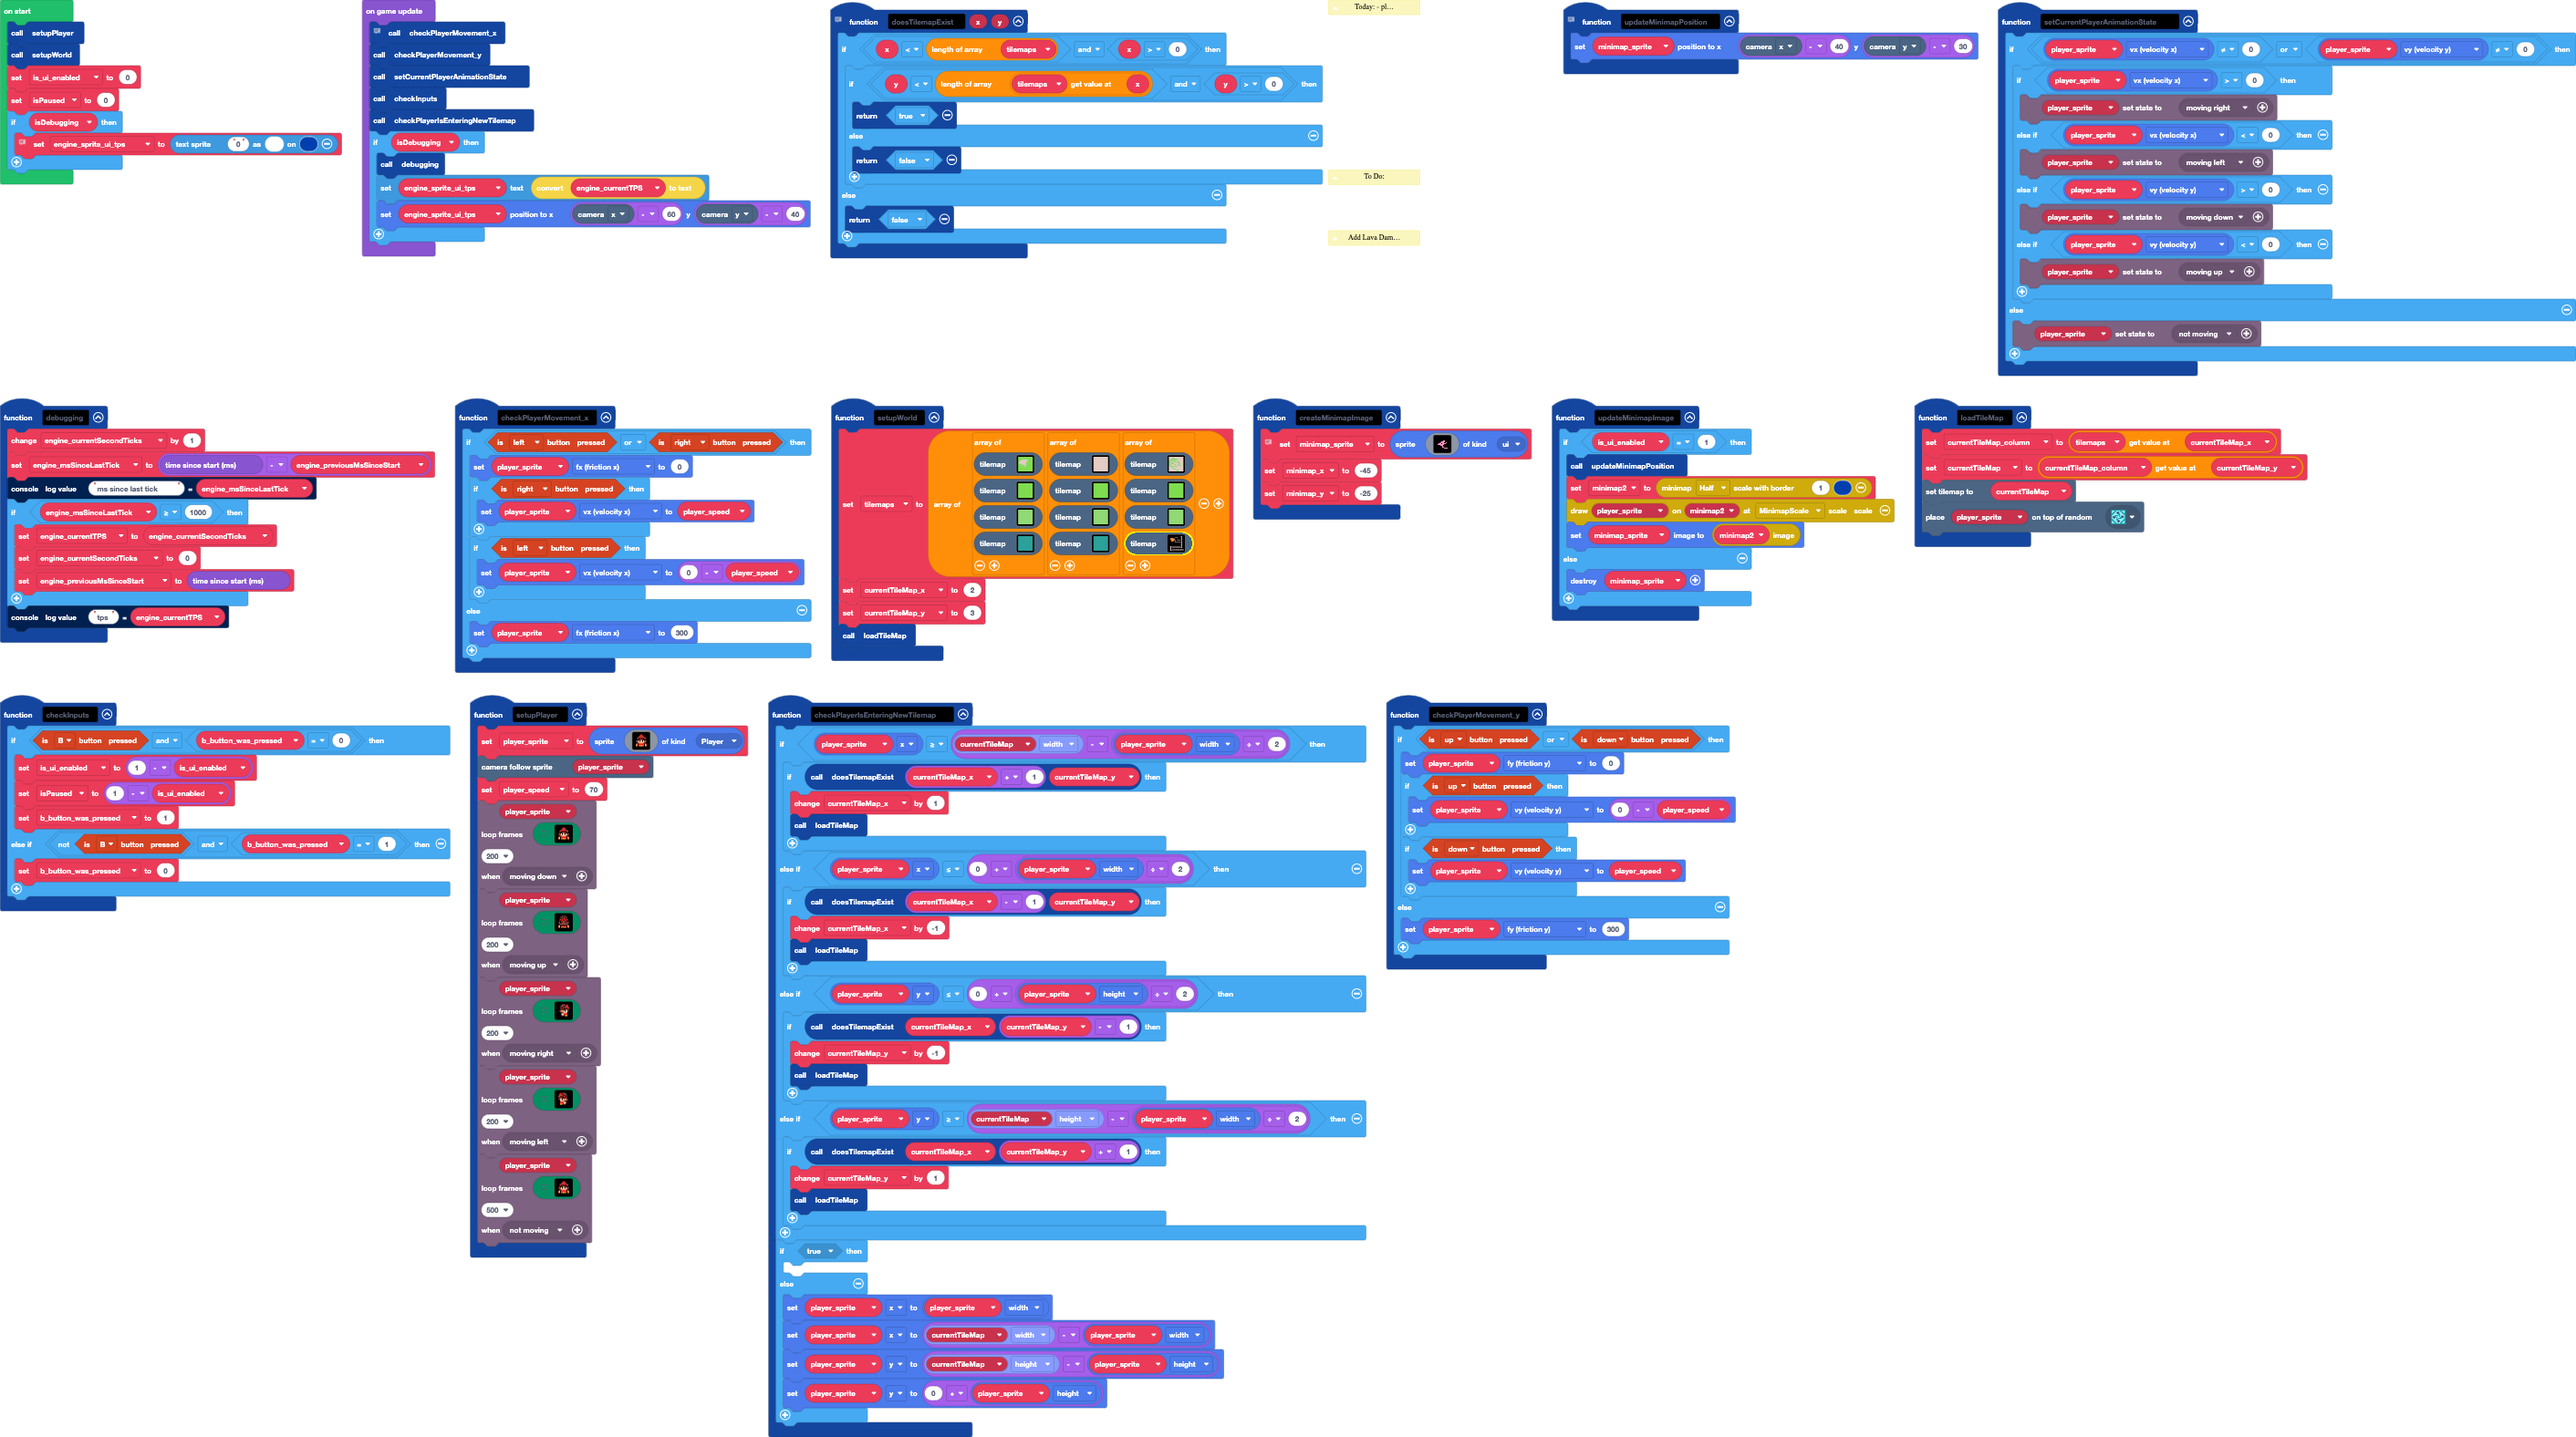
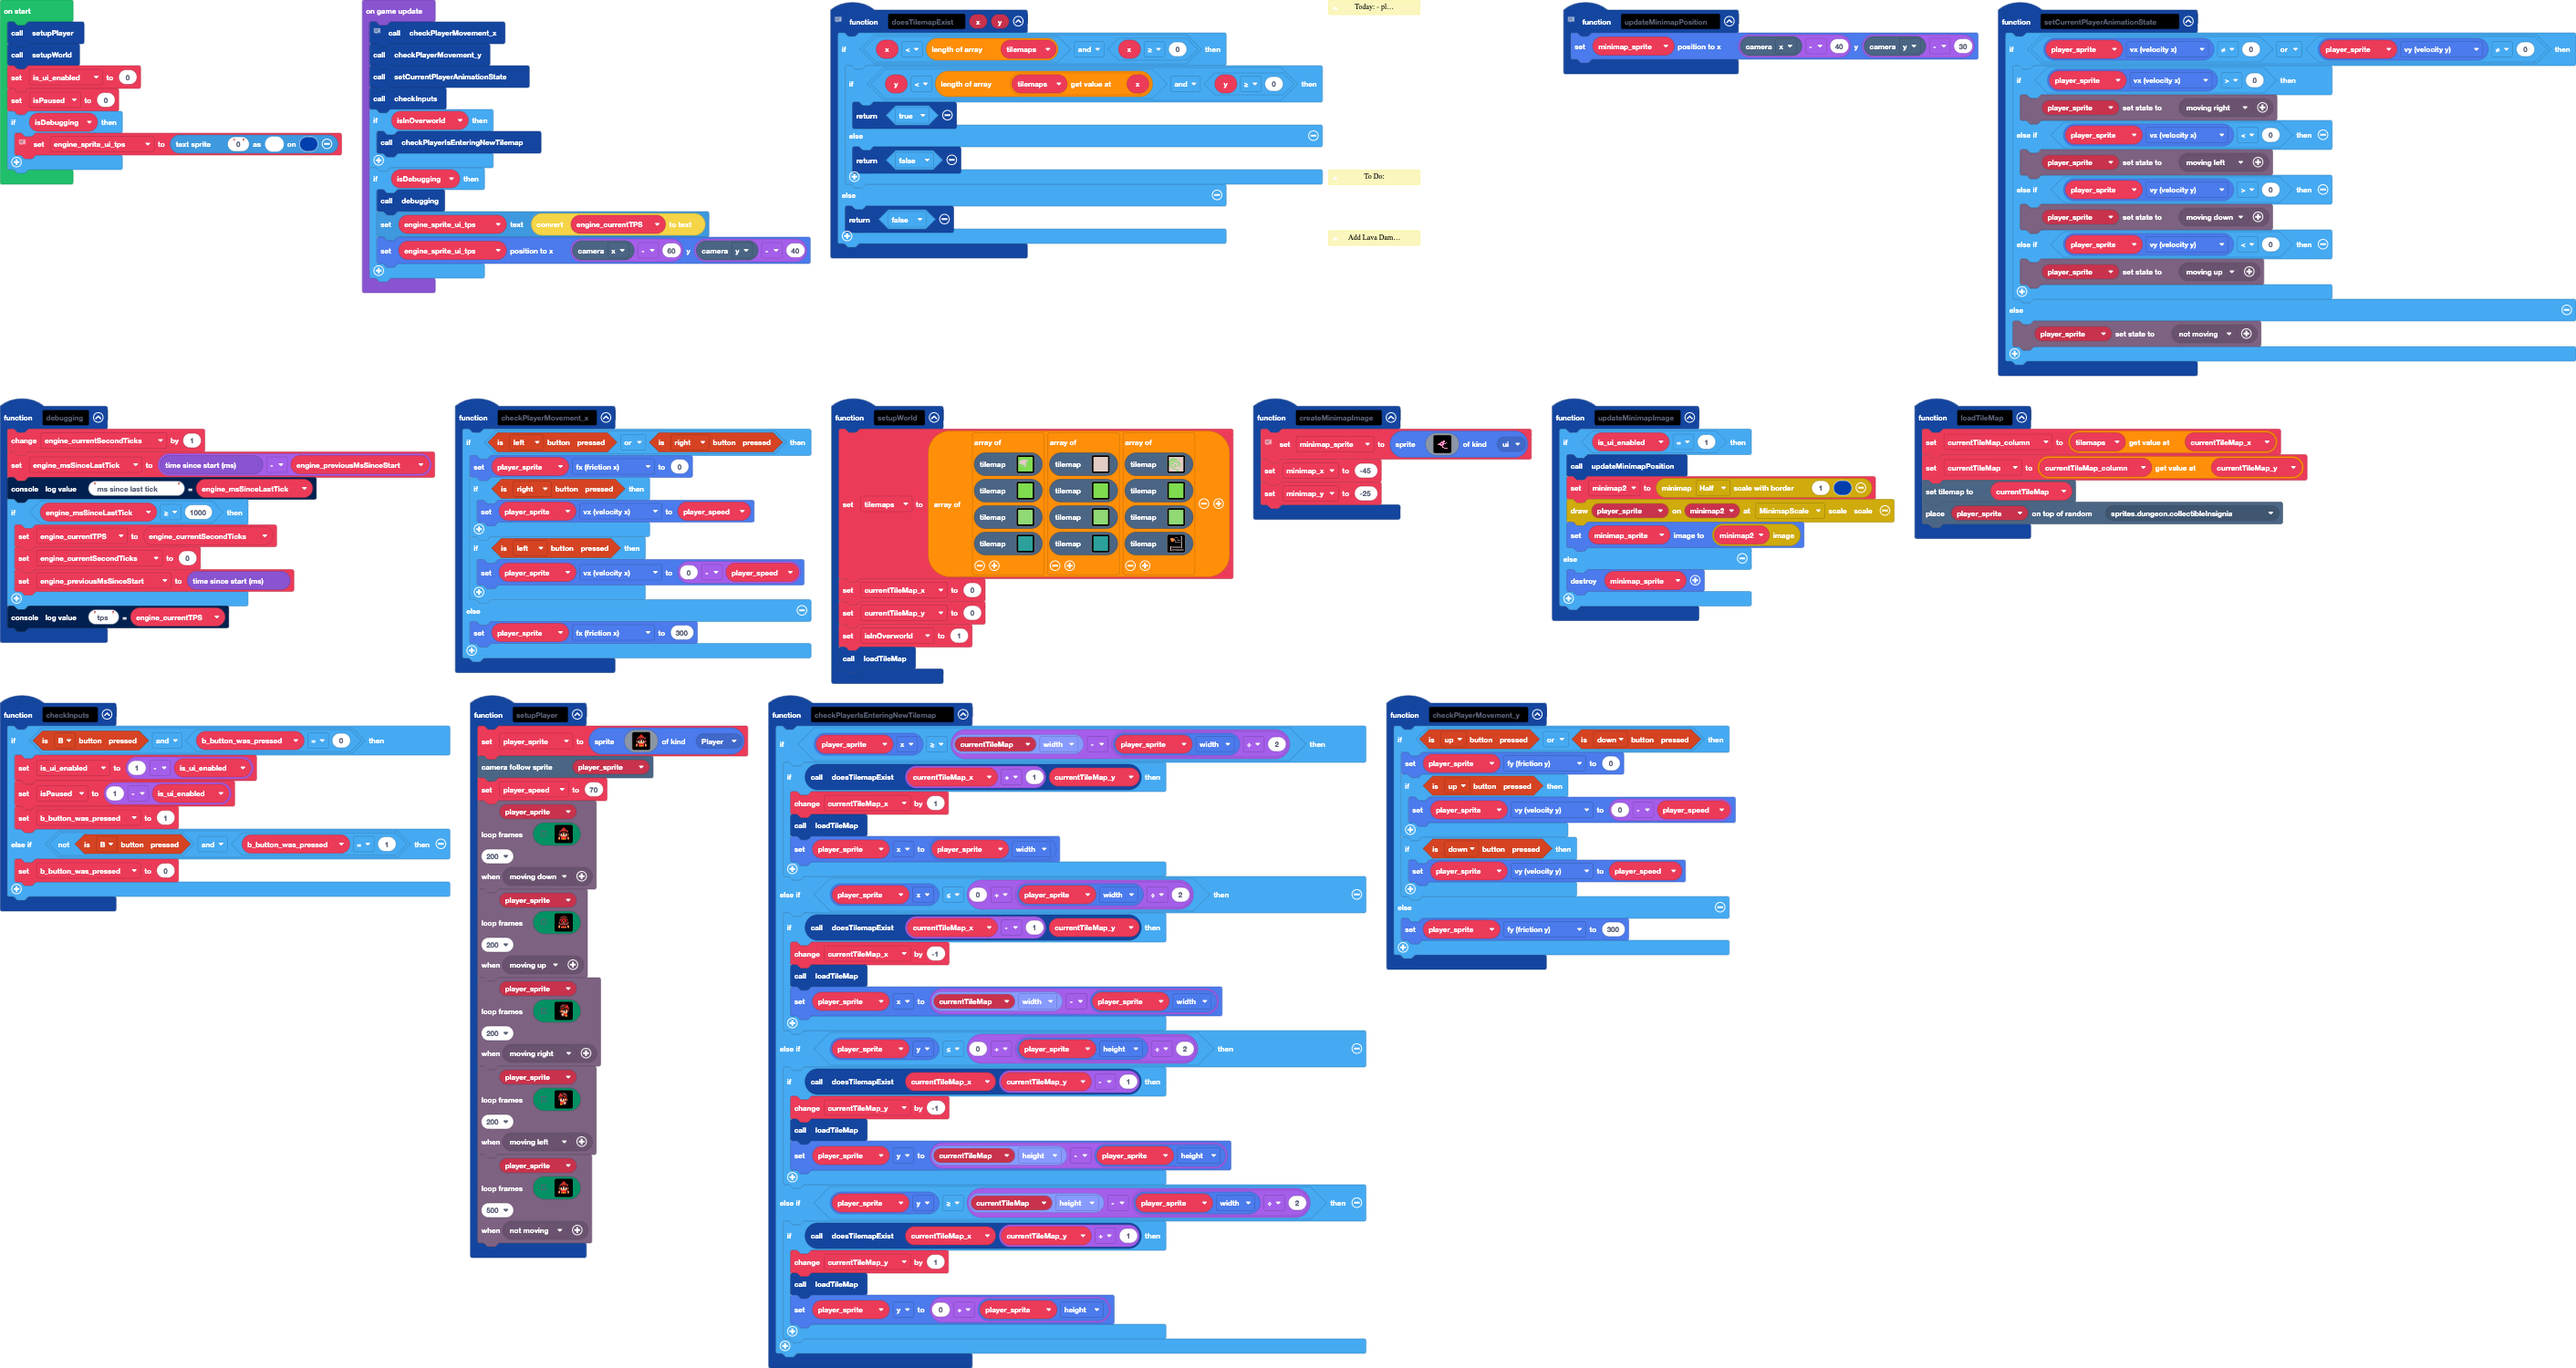
Fixed tilemap bug, added isInOverworld variable check

Changed region(s): [[0.0, 0.0, 1.0, 1.0], [0.0, 0.0, 0.5609, 0.2147]]

diff --git a/main.ts b/main.ts
@@ -61,8 +61,8 @@ namespace SpriteKind {
 // 
 // - Switching tile-maps when you touch the edge of the screen
 function doesTilemapExist (x: number, y: number) {
-    if (x < tilemaps.length && x > 0) {
-        if (y < tilemaps[x].length && y > 0) {
+    if (x < tilemaps.length && x >= 0) {
+        if (y < tilemaps[x].length && y >= 0) {
             return true
         } else {
             return false
@@ -131,8 +131,9 @@ function setupWorld () {
     tilemap`level8`,
     tilemap`level`
     ]]
-    currentTileMap_x = 2
-    currentTileMap_y = 3
+    currentTileMap_x = 0
+    currentTileMap_y = 0
+    isInOverworld = 1
     loadTileMap()
 }
 function createMinimapImage () {
@@ -206,30 +207,26 @@ function checkPlayerIsEnteringNewTilemap () {
         if (doesTilemapExist(currentTileMap_x + 1, currentTileMap_y)) {
             currentTileMap_x += 1
             loadTileMap()
+            player_sprite.x = player_sprite.width
         }
     } else if (player_sprite.x <= 0 + player_sprite.width / 2) {
         if (doesTilemapExist(currentTileMap_x - 1, currentTileMap_y)) {
             currentTileMap_x += -1
             loadTileMap()
+            player_sprite.x = tileUtil.tilemapProperty(currentTileMap, tileUtil.TilemapProperty.PixelWidth) - player_sprite.width
         }
     } else if (player_sprite.y <= 0 + player_sprite.height / 2) {
         if (doesTilemapExist(currentTileMap_x, currentTileMap_y - 1)) {
             currentTileMap_y += -1
             loadTileMap()
+            player_sprite.y = tileUtil.tilemapProperty(currentTileMap, tileUtil.TilemapProperty.PixelHeight) - player_sprite.height
         }
     } else if (player_sprite.y >= tileUtil.tilemapProperty(currentTileMap, tileUtil.TilemapProperty.PixelHeight) - player_sprite.width / 2) {
         if (doesTilemapExist(currentTileMap_x, currentTileMap_y + 1)) {
             currentTileMap_y += 1
             loadTileMap()
+            player_sprite.y = 0 + player_sprite.height
         }
-    }
-    if (true) {
-    	
-    } else {
-        player_sprite.x = player_sprite.width
-        player_sprite.x = tileUtil.tilemapProperty(currentTileMap, tileUtil.TilemapProperty.PixelWidth) - player_sprite.width
-        player_sprite.y = tileUtil.tilemapProperty(currentTileMap, tileUtil.TilemapProperty.PixelHeight) - player_sprite.height
-        player_sprite.y = 0 + player_sprite.height
     }
 }
 function checkPlayerMovement_y () {
@@ -251,6 +248,7 @@ let currentTileMap_column: tiles.TileMapData[] = []
 let minimap2: minimap.Minimap = null
 let minimap_y = 0
 let minimap_x = 0
+let isInOverworld = 0
 let currentTileMap_y = 0
 let currentTileMap_x = 0
 let player_speed = 0
@@ -286,7 +284,9 @@ game.onUpdate(function () {
     checkPlayerMovement_y()
     setCurrentPlayerAnimationState()
     checkInputs()
-    checkPlayerIsEnteringNewTilemap()
+    if (isInOverworld) {
+        checkPlayerIsEnteringNewTilemap()
+    }
     if (isDebugging) {
         debugging()
         engine_sprite_ui_tps.setText(convertToText(engine_currentTPS))
